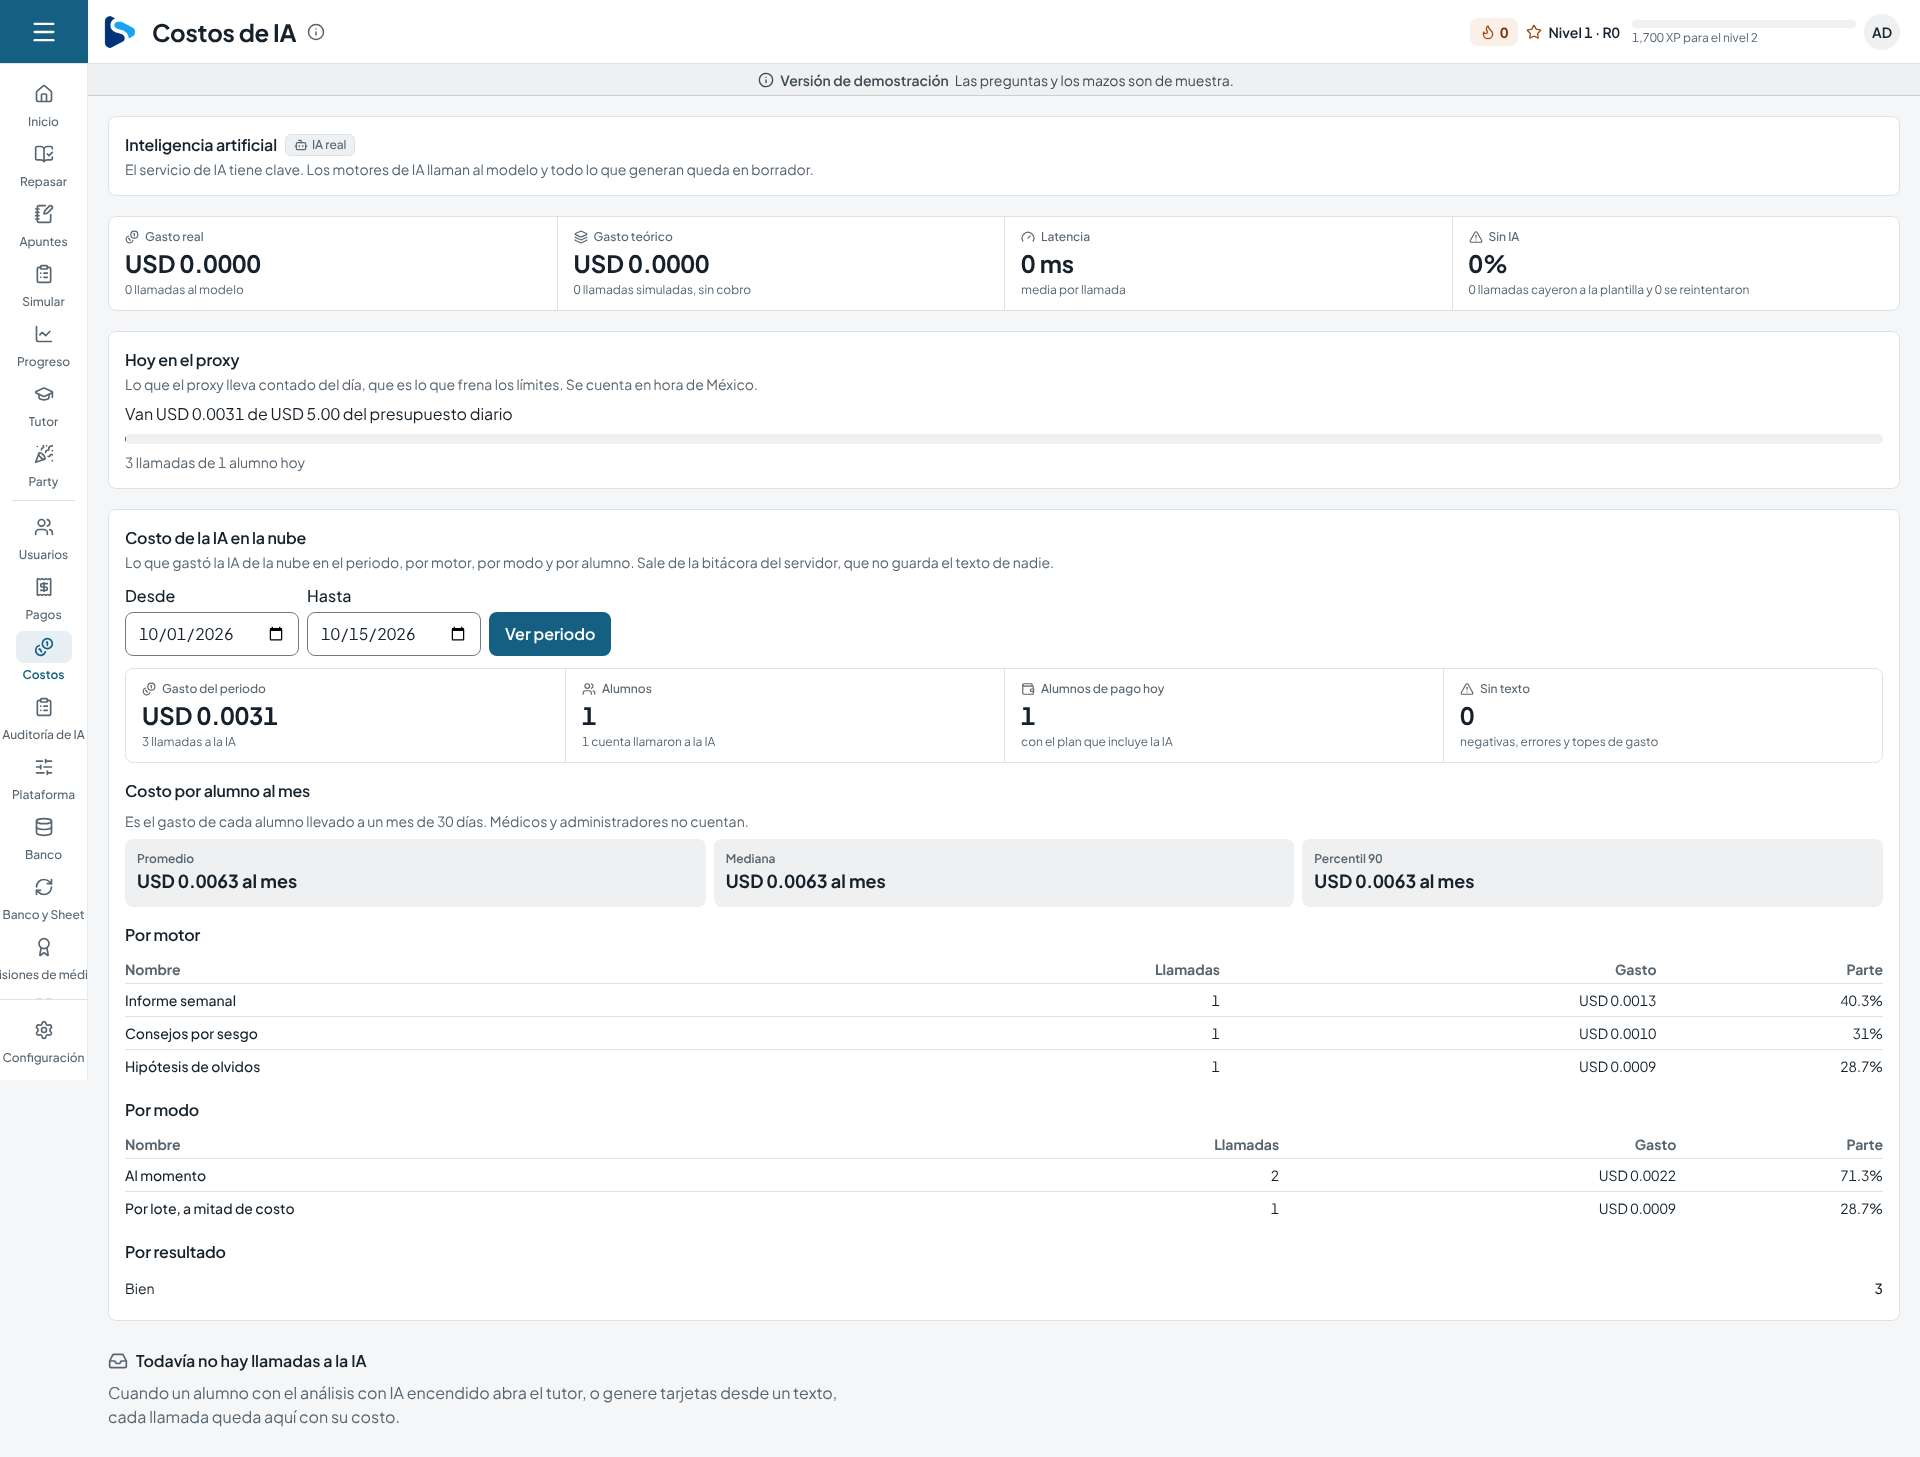
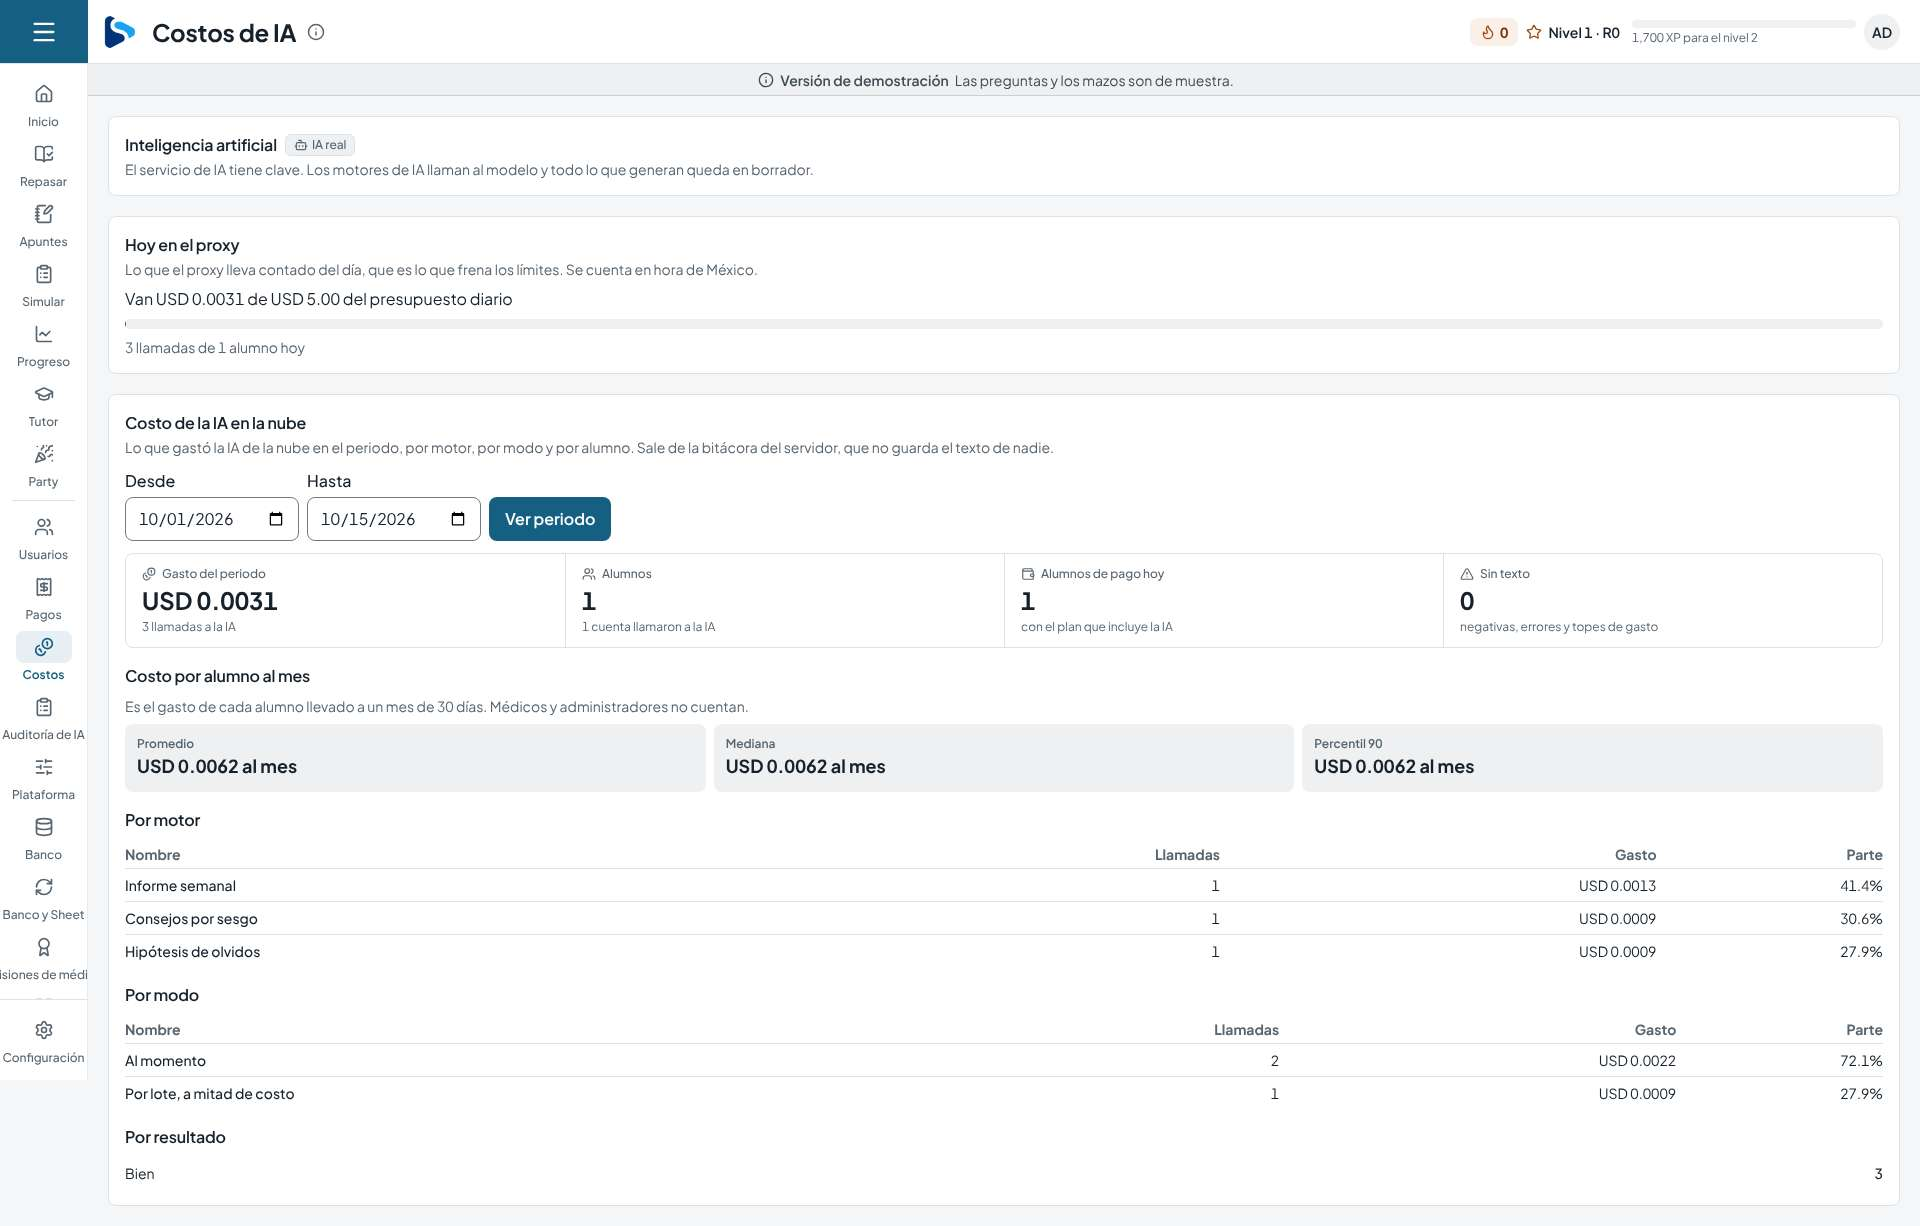
B12. El resumen del Tutor y Costos de IA ya no se contradicen con la IA real
Dos textos que la revisión de las capturas mostró incoherentes con la IA real.

El encabezado del resumen del Tutor decía que el informe de cada semana llega con la IA en la siguiente fase,
aunque la tarjeta ya mostraba el texto redactado por la IA. Ahora dice que es de plantilla fija cuando no hay
IA, sin prometer nada, y que la IA lo redacta con esos mismos números y sin agregar nada nuevo cuando sí la hay.

En Costos de IA, con la cuenta de la nube conectada, la bitácora de este navegador salía con ceros y con el
aviso de que todavía no hay llamadas, justo debajo de un costo de la nube con llamadas. Si este navegador no
hizo ninguna llamada, ahora no se ven sus ceros ni su aviso. Si hizo alguna, se ven como antes. Sin la nube
nada cambia.

Con pruebas de pantalla de las dos, mutaciones que las hacen fallar, aserciones nuevas en la e2e de nube y
las capturas 02 y 05 vueltas a tomar.

Claude-Session: https://claude.ai/code/session_01YKFqXpyxncWUHJxMUnNvCB

diff --git a/src/features/admin/AiCostsScreen.tsx b/src/features/admin/AiCostsScreen.tsx
@@ -2,9 +2,12 @@
 // por motor y por día, cuánto costaría un alumno al mes y cada llamada con su modelo, sus tokens, su
 // costo, su latencia y cómo terminó. El gasto de las respuestas simuladas es teórico y se dice con
 // texto. Antes de proyectar espera a tener llamadas y días suficientes. Arriba, siempre, en qué modo
-// está la IA, real, simulada o sin conexión (B3 del plan del cambio).
+// está la IA, real, simulada o sin conexión (B3 del plan del cambio). Con la cuenta de la nube conectada
+// el costo de verdad es el de la nube (B12, 2.5), y la bitácora de este navegador solo se ve si hizo
+// llamadas, porque sus ceros y su aviso de que no hay llamadas contradirían a la nube.
 import { Coins, Gauge, Layers, TriangleAlert } from 'lucide-react';
 import { useState } from 'react';
+import { useCloud } from '@/app/cloudState';
 import { useSession } from '@/app/session';
 import { ScreenHeader } from '@/app/layout/ScreenHeader';
 import { readStoredOverrides } from '@/config/overridesStore';
@@ -39,6 +42,7 @@ export function AiCostsScreen() {
   const timeZone = session.status === 'ready' ? session.user.timeZone : DEFAULT_TIME_ZONE;
   const calls = useLiveData(() => api.repos.aiCallLog.list(), [api.repos]);
   const admin = useAiAdmin();
+  const cloudLinked = useCloud((store) => store.state.status === 'linked');
   const [estimate] = useState(() => readStoredOverrides()?.aiCostEstimateUsd ?? null);
   const [engine, setEngine] = useState(ALL);
   const [mode, setMode] = useState(ALL);
@@ -61,6 +65,7 @@ export function AiCostsScreen() {
 
   const records = calls;
   const summary = summarizeCosts(records, timeZone);
+  const hideLocal = cloudLinked && summary.total.calls === 0;
   const projection = projectMonthlyPerStudent(records, timeZone);
   const failedShare =
     summary.total.calls === 0 ? 0 : Math.round((summary.total.failed / summary.total.calls) * 100);
@@ -78,32 +83,34 @@ export function AiCostsScreen() {
     <>
       {header}
 
-      <StatPanel label={text.stats.label} quad>
-        <StatCell
-          icon={<Coins />}
-          label={text.stats.real}
-          value={formatUsd(summary.real.costUsd)}
-          caption={text.stats.realCaption(summary.real.calls)}
-        />
-        <StatCell
-          icon={<Layers />}
-          label={text.stats.simulated}
-          value={formatUsd(summary.simulated.costUsd)}
-          caption={text.stats.simulatedCaption(summary.simulated.calls)}
-        />
-        <StatCell
-          icon={<Gauge />}
-          label={text.stats.latency}
-          value={`${formatInt(summary.total.avgLatencyMs)} ms`}
-          caption={text.stats.latencyCaption}
-        />
-        <StatCell
-          icon={<TriangleAlert />}
-          label={text.stats.failed}
-          value={`${failedShare}%`}
-          caption={text.stats.failedCaption(summary.total.failed, summary.total.retried)}
-        />
-      </StatPanel>
+      {hideLocal ? null : (
+        <StatPanel label={text.stats.label} quad>
+          <StatCell
+            icon={<Coins />}
+            label={text.stats.real}
+            value={formatUsd(summary.real.costUsd)}
+            caption={text.stats.realCaption(summary.real.calls)}
+          />
+          <StatCell
+            icon={<Layers />}
+            label={text.stats.simulated}
+            value={formatUsd(summary.simulated.costUsd)}
+            caption={text.stats.simulatedCaption(summary.simulated.calls)}
+          />
+          <StatCell
+            icon={<Gauge />}
+            label={text.stats.latency}
+            value={`${formatInt(summary.total.avgLatencyMs)} ms`}
+            caption={text.stats.latencyCaption}
+          />
+          <StatCell
+            icon={<TriangleAlert />}
+            label={text.stats.failed}
+            value={`${failedShare}%`}
+            caption={text.stats.failedCaption(summary.total.failed, summary.total.retried)}
+          />
+        </StatPanel>
+      )}
 
       <Card aria-labelledby="costos-hoy">
         <CardHeader className="mb-2">
@@ -144,7 +151,9 @@ export function AiCostsScreen() {
       <CloudCostsCard />
 
       {summary.total.calls === 0 ? (
-        <EmptyState title={text.empty.title} description={text.empty.description} />
+        hideLocal ? null : (
+          <EmptyState title={text.empty.title} description={text.empty.description} />
+        )
       ) : (
         <>
           <Card aria-labelledby="costos-motor">

diff --git a/src/features/admin/AiCostsCloud.test.tsx b/src/features/admin/AiCostsCloud.test.tsx
@@ -1,0 +1,107 @@
+// @vitest-environment jsdom
+// Costos de IA con la cuenta de la nube conectada (B12, 2.5). El costo de verdad es el de la nube. La
+// bitácora de este navegador solo se ve si este navegador hizo llamadas, porque sus ceros y su aviso de
+// que no hay llamadas contradirían a lo que cuenta la nube.
+import 'fake-indexeddb/auto';
+import { cleanup, screen, within } from '@testing-library/react';
+import { afterEach, describe, expect, it, vi } from 'vitest';
+import { useCloud } from '@/app/cloudState';
+import { usePreferences } from '@/app/preferences';
+import { SCREENS } from '@/app/screens';
+import { renderApp, resetApp, type RenderedApp } from '@/app/testing/renderApp';
+import type { AiCallLog } from '@/data/schemas/activity';
+import { newId } from '@/data/testing/fixtures';
+import { adminText } from '@/i18n/admin';
+
+vi.setConfig({ testTimeout: 30_000 });
+
+// La nube conectada solo para el reporte de costos. El resto de la app sigue sin cliente de la nube
+const holder = vi.hoisted((): { cloud: unknown } => ({ cloud: null }));
+vi.mock('@/data/cloud/client', () => ({
+  getCloud: () => null,
+  cloudConfigured: () => false,
+  loadCloud: () => Promise.resolve(holder.cloud),
+}));
+
+let app: RenderedApp | undefined;
+afterEach(async () => {
+  cleanup();
+  holder.cloud = null;
+  useCloud.setState({ state: { status: 'off' } });
+  localStorage.clear();
+  await resetApp(app?.api);
+  app = undefined;
+});
+
+const WAIT = { timeout: 20_000 };
+const text = adminText.adminCosts;
+
+const REPORT = {
+  from: '2026-10-01',
+  to: '2026-10-31',
+  calls: 120,
+  totalUsd: 1.5,
+  byEngine: { flashcards: { calls: 120, costUsd: 1.5 } },
+  byMode: { sync: { calls: 120, costUsd: 1.5 } },
+  byOutcome: { ok: 120 },
+  users: 12,
+  students: 11,
+  perStudentMonthlyUsd: { mean: 0.136, p50: 0.09, p90: 0.31 },
+  paidStudentsToday: 9,
+};
+
+const call = (): AiCallLog => ({
+  id: newId(),
+  userId: null,
+  engine: 'forgetting',
+  mode: 'real',
+  model: 'claude-haiku-4-5',
+  at: new Date().toISOString(),
+  inputTokens: 1000,
+  outputTokens: 200,
+  cacheWriteTokens: 0,
+  cacheReadTokens: 0,
+  estimatedCostUsd: 0.002,
+  latencyMs: 500,
+  outcome: 'ok',
+});
+
+async function openLinked(calls: AiCallLog[]) {
+  holder.cloud = {
+    rpc: () => Promise.resolve({ data: REPORT, error: null }),
+  };
+  useCloud.setState({
+    state: {
+      status: 'linked',
+      identity: { authId: 'yo', email: 'yo@ejemplo.mx', role: 'admin', alias: null },
+    },
+  });
+  usePreferences.setState({ role: 'admin' });
+  app = await renderApp(SCREENS.aiCosts.path, {
+    seed: async (api) => {
+      await api.repos.aiCallLog.putMany(calls);
+    },
+  });
+  await screen.findByRole('heading', { level: 1, name: text.title }, WAIT);
+  const cloud = await screen.findByRole('region', { name: text.cloud.title }, WAIT);
+  // Ya llegó el reporte de la nube
+  expect(
+    await within(cloud).findByText(text.cloud.totalCaption(120), undefined, WAIT),
+  ).toBeVisible();
+}
+
+describe('costos de IA con la nube conectada', () => {
+  it('sin llamadas en este navegador no se ven sus ceros ni su aviso de que no hay llamadas', async () => {
+    await openLinked([]);
+    expect(screen.queryByRole('region', { name: text.stats.label })).toBeNull();
+    expect(screen.queryByText(text.empty.title)).toBeNull();
+  });
+
+  it('con llamadas hechas desde este navegador también se ven, junto al costo de la nube', async () => {
+    await openLinked([call(), call()]);
+    const stats = await screen.findByRole('region', { name: text.stats.label }, WAIT);
+    expect(within(stats).getByText(text.stats.realCaption(2))).toBeVisible();
+    expect(screen.queryByText(text.empty.title)).toBeNull();
+    expect(screen.getByRole('region', { name: text.cloud.title })).toBeVisible();
+  });
+});

diff --git a/src/features/tutor/TutorSections.test.tsx b/src/features/tutor/TutorSections.test.tsx
@@ -4,6 +4,7 @@ import { MemoryRouter } from 'react-router';
 import { describe, expect, it } from 'vitest';
 import { t } from '@/i18n/es-MX';
 import type { FocusItem } from '../progress/focusItems';
+import type { ReportAi } from './aiContent';
 import { BiasTipsCard, WeeklyReportCard } from './TutorSections';
 import type { WeeklyReport } from './weeklyReport';
 
@@ -100,6 +101,36 @@ describe('resumen del tutor', () => {
       </MemoryRouter>,
     );
     expect(screen.getAllByText(t.tutor.biasTips.draftLabel)).toHaveLength(1);
+  });
+
+  it('el encabezado dice si el resumen es de plantilla fija o lo redactó la IA, sin prometer una fase que ya llegó', () => {
+    const report = ready([item({ key: 'negation', title: 'Negaciones' })]);
+    const written: ReportAi = {
+      summary: 'Esta semana respondiste 48 preguntas.',
+      priorities: [{ ref: 'negation', text: 'Practica las negaciones.' }],
+      habit: null,
+      challenge: null,
+      generatedAt: '2026-10-15T12:00:00.000Z',
+      mode: 'real',
+      week: '2026-10-12',
+    };
+    const { rerender } = render(
+      <MemoryRouter>
+        <WeeklyReportCard report={report} />
+      </MemoryRouter>,
+    );
+    expect(screen.getByText(t.tutor.report.hint)).toBeVisible();
+    expect(screen.queryByText(t.tutor.report.hintAi)).toBeNull();
+    rerender(
+      <MemoryRouter>
+        <WeeklyReportCard report={report} ai={written} />
+      </MemoryRouter>,
+    );
+    expect(screen.getByText(t.tutor.report.hintAi)).toBeVisible();
+    expect(screen.queryByText(t.tutor.report.hint)).toBeNull();
+    // Ninguno habla de una fase futura, porque la IA ya redacta el resumen cuando el motor está abierto
+    expect(t.tutor.report.hint).not.toMatch(/fase/i);
+    expect(t.tutor.report.hintAi).not.toMatch(/fase/i);
   });
 
   it('antes de las respuestas mínimas calibra con cuántas lleva', () => {

diff --git a/tests/e2e/cloud/ai.spec.ts b/tests/e2e/cloud/ai.spec.ts
@@ -198,6 +198,9 @@ test.describe('IA alojada', () => {
     const report = page.getByRole('region', { name: t.tutor.report.title });
     await expect(report.getByText(t.tutor.ai.written.real)).toBeVisible({ timeout: 60_000 });
     await expect(report.getByText(t.tutor.ai.draft)).toBeVisible();
+    // El encabezado del resumen ya no dice que es de plantilla fija ni promete la IA para después
+    await expect(report.getByText(t.tutor.report.hintAi)).toBeVisible();
+    await expect(report.getByText(t.tutor.report.hint)).toHaveCount(0);
     const tips = page.getByRole('region', { name: t.tutor.biasTips.title });
     await expect(tips.getByText(t.tutor.ai.written.real)).toBeVisible({ timeout: 60_000 });
     await expect(tips.getByText(t.tutor.ai.draft)).toBeVisible();
@@ -377,6 +380,12 @@ test.describe('IA alojada', () => {
     // Un solo alumno con costo. Sin texto ni correo de nadie
     await expect(card.getByText(text.studentsCaption(1))).toBeVisible();
     await expect(card.getByText(ANA)).toHaveCount(0);
+    // Con la nube conectada no se ven los ceros de este navegador ni su aviso de que no hay llamadas,
+    // que contradirían a lo que cuenta la nube
+    await expect(admin.page.getByText(adminText.adminCosts.empty.title)).toHaveCount(0);
+    await expect(
+      admin.page.getByRole('region', { name: adminText.adminCosts.stats.label }),
+    ).toHaveCount(0);
     await expectNoSeriousA11yViolations(admin.page);
     await admin.context.close();
   });

diff --git a/src/i18n/tutor.ts b/src/i18n/tutor.ts
@@ -151,7 +151,10 @@ export const tutorText = {
 
     report: {
       title: 'Tu resumen',
-      hint: 'Un resumen con plantilla fija, armado con todos tus números hasta hoy. Las secciones que todavía calibran no aparecen. El informe de cada semana llega con la IA en la siguiente fase.',
+      hint: 'Un resumen con plantilla fija, armado con todos tus números hasta hoy. Las secciones que todavía calibran no aparecen.',
+      // Cuando la IA redactó el resumen de la semana (B12). Los números y las prioridades son los mismos
+      hintAi:
+        'Un resumen armado con todos tus números hasta hoy. La IA lo redacta con esos mismos números y no agrega nada nuevo. Las secciones que todavía calibran no aparecen.',
       calibrating: (have: number, need: number) =>
         `Calibrando. El resumen aparece al juntar ${need} respuestas y llevas ${have}.`,
       priorities: 'Tus prioridades',

diff --git a/src/features/tutor/TutorSections.tsx b/src/features/tutor/TutorSections.tsx
@@ -84,7 +84,7 @@ export function WeeklyReportCard({
           <Target aria-hidden className="text-fg-muted" />
           {text.title}
         </CardTitle>
-        <CardDescription>{text.hint}</CardDescription>
+        <CardDescription>{ai ? text.hintAi : text.hint}</CardDescription>
       </CardHeader>
       {report.ready ? (
         <div className="flex flex-col gap-4">
